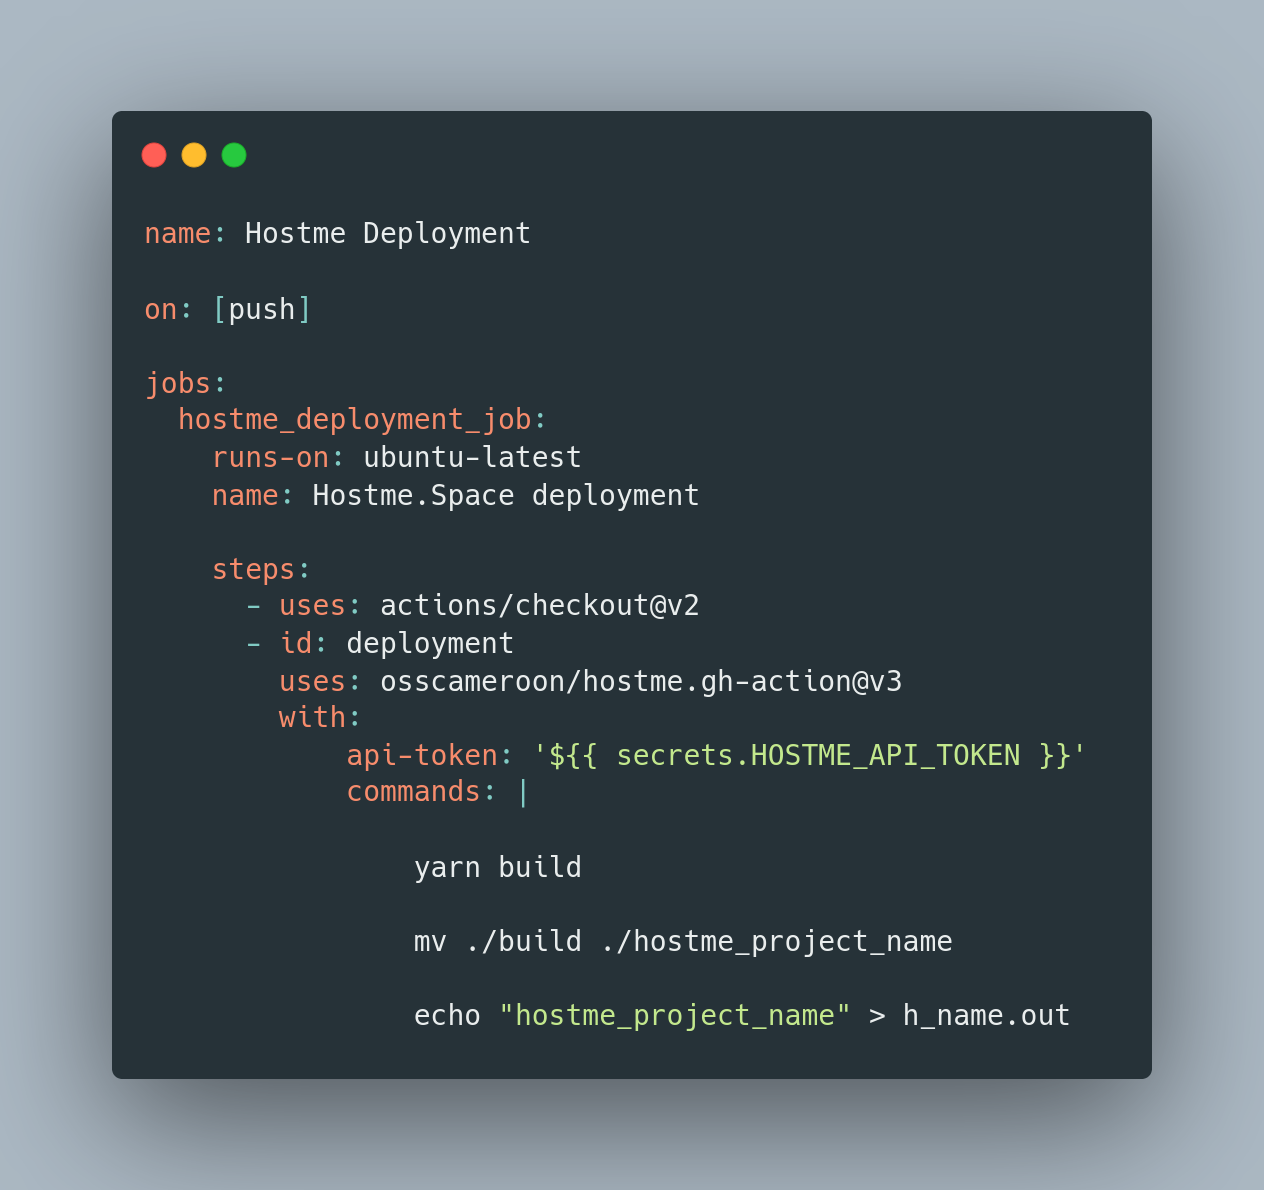
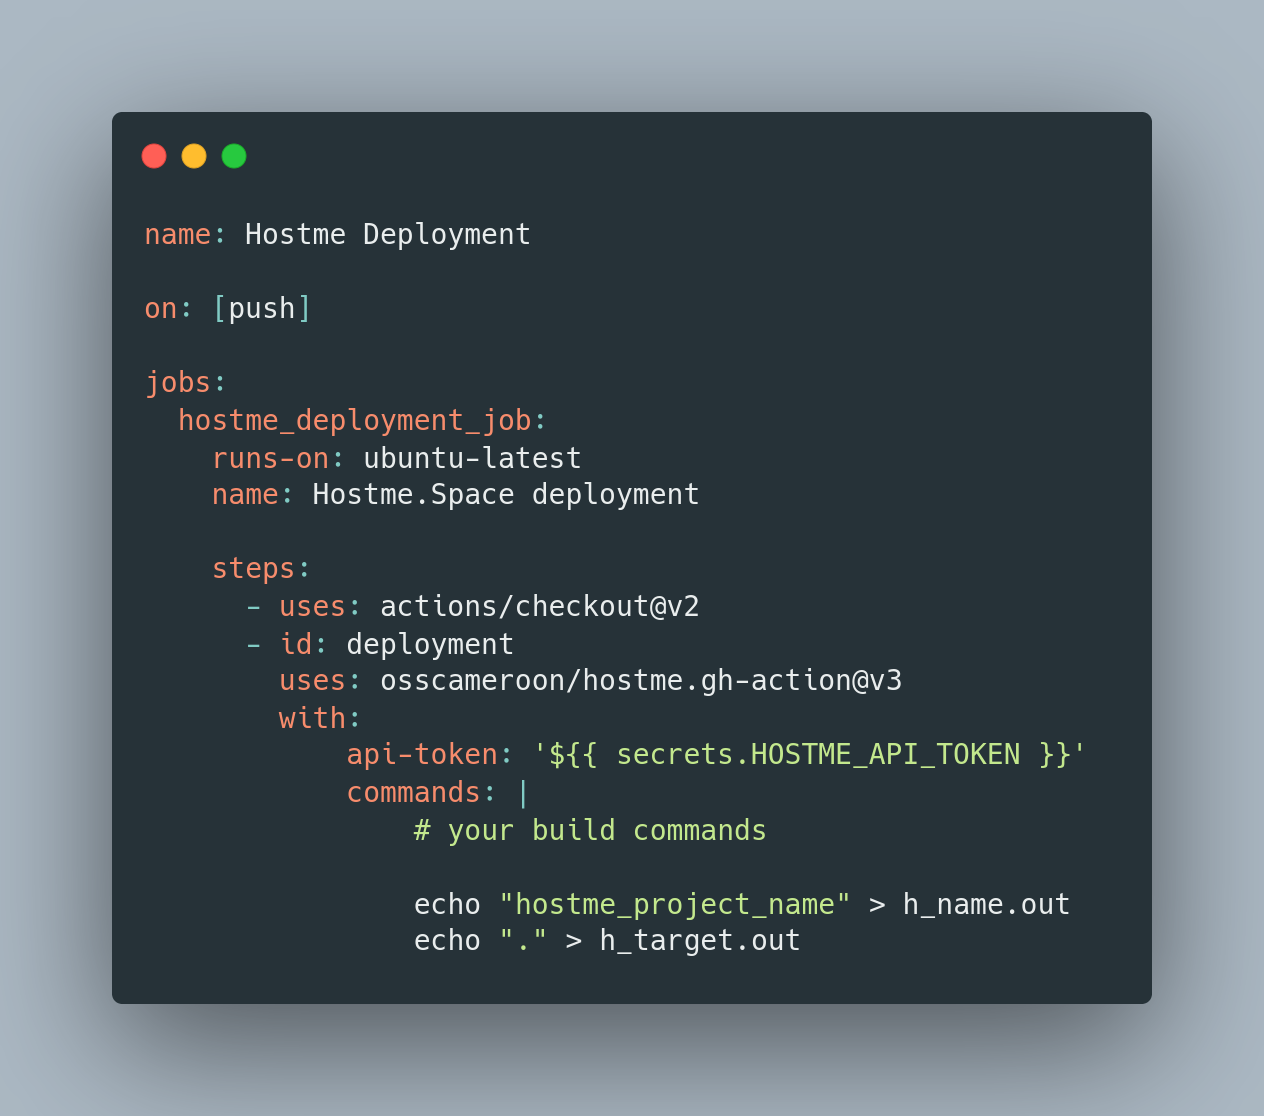
feat: provide the target folder

Changed region(s): [[0.0926, 0.1828, 0.9256, 0.914], [0.0926, 0.0914, 0.9256, 0.1523]]

diff --git a/README.md b/README.md
@@ -25,16 +25,10 @@ What this ghaction do :
 
 Some explanations with comments:
 ```yaml
-api-token: '${{ secrets.HOSTME_API_TOKEN }}'
-# We just build the website (if needed) and provide
-# the name of the hostme project inside a file
-commands: |
-    yarn build
-    # ... all other commands here
-    mv ./build ./hostme_project_name
-    
-    # this step is really important...
-    # otherwise, the github action will not deploy correctly
-    echo "hostme_project_name" > h_name.out
+# Two important parameters are required here
+# the h_name.out that will contain the hostme project name
+# the h_target.out that will contain the folder zip that will be zip
+echo "hostme_project_name" > h_name.out
+echo "build" > h_target.out
 ```
 
